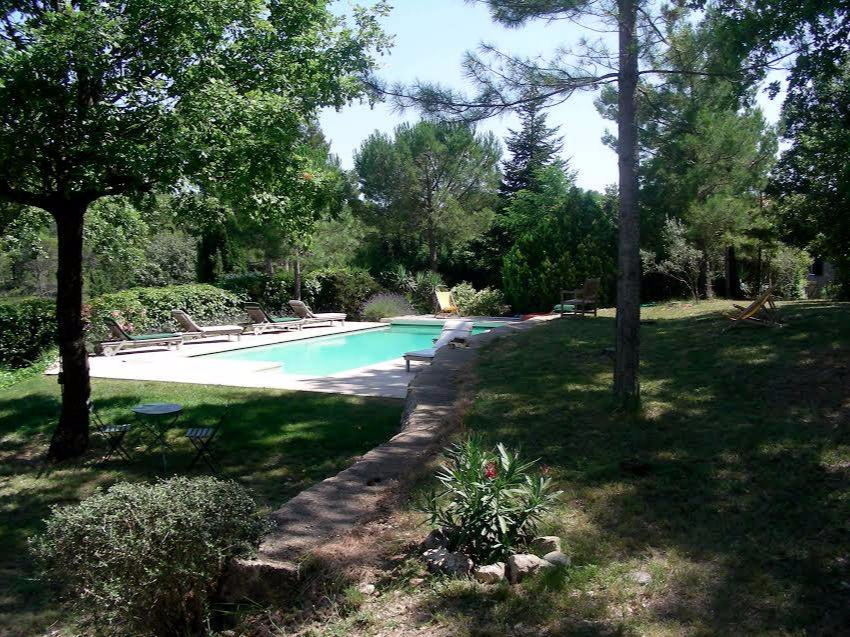
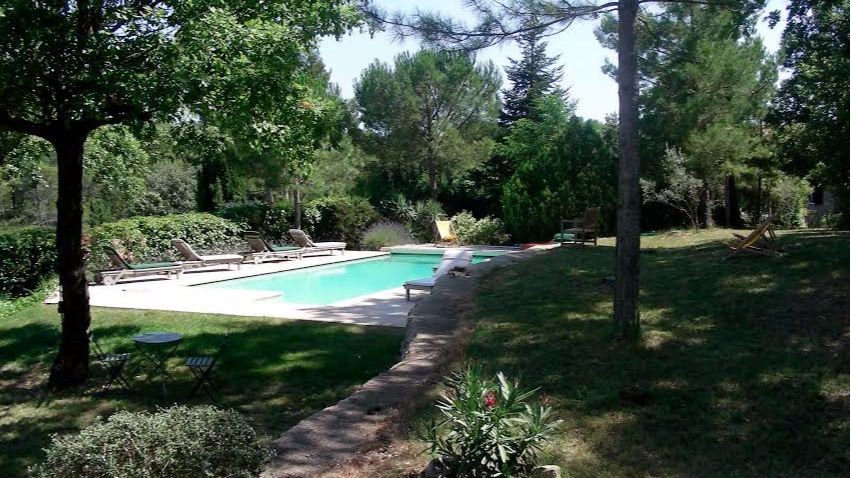
create github pages

diff --git a/tarifs.html b/tarifs.html
@@ -23,37 +23,7 @@
   
 </head>
 <body>
-  <section class="mbr-section article content12 cid-qJmukr1Xi2" id="content12-q">
-     
-
-    <div class="container">
-        <div class="media-container-row">
-            <div class="mbr-text counter-container col-12 col-md-8 mbr-fonts-style display-7">
-                <ul>
-                    <li><strong>PLEINE SAISON : </strong>du 28 juin au 30 août <br><strong>2.400 euros/semaine</strong></li>
-                    <li><strong>MOYENNE SAISON :</strong>&nbsp;du 3 mai au 28 juin et du 30 août au 4 octobre<br><strong>1.400 euros/semaine</strong></li>
-                    <li><strong>BASSE SAISON : </strong>5 octobre au 2 mai (pas de piscine)<br><strong>1.000 euros/semaine</strong></li>
-                </ul>
-            </div>
-        </div>
-    </div>
-</section>
-
-<section class="engine"><a href="https://mobirise.ws/e">best web maker software</a></section><section class="mbr-section content8 cid-qJtFdrYw0t" id="content8-1i">
-
-    
-
-    <div class="container">
-        <div class="media-container-row title">
-            <div class="col-12 col-md-8">
-                <div class="mbr-section-btn align-center"><a class="btn btn-primary display-5" href="https://www.homelidays.com/hebergement/p6071163?uni_id=1830457" target="_blank">DISONIBILITES ET TARIFS SUR HOMELIDAYS</a>
-                    <a class="btn btn-secondary display-5" href="https://fr.airbnb.be/rooms/4954449" target="_blank">DISPONIBILITES ET TARIFS SUR AIRBNB</a></div>
-            </div>
-        </div>
-    </div>
-</section>
-
-<section class="menu cid-qJmcF7aVNH" once="menu" id="menu1-j">
+  <section class="menu cid-qJmcF7aVNH" once="menu" id="menu1-j">
 
     
 
@@ -94,6 +64,36 @@
             
         </div>
     </nav>
+</section>
+
+<section class="engine"><a href="https://mobirise.ws/e">best website building software</a></section><section class="mbr-section article content12 cid-qJmukr1Xi2" id="content12-q">
+     
+
+    <div class="container">
+        <div class="media-container-row">
+            <div class="mbr-text counter-container col-12 col-md-8 mbr-fonts-style display-7">
+                <ul>
+                    <li><strong>PLEINE SAISON : </strong>du 28 juin au 30 août <br><strong>2.400 euros/semaine</strong></li>
+                    <li><strong>MOYENNE SAISON :</strong>&nbsp;du 3 mai au 28 juin et du 30 août au 4 octobre<br><strong>1.400 euros/semaine</strong></li>
+                    <li><strong>BASSE SAISON : </strong>5 octobre au 2 mai (pas de piscine)<br><strong>1.000 euros/semaine</strong></li>
+                </ul>
+            </div>
+        </div>
+    </div>
+</section>
+
+<section class="mbr-section content8 cid-qJtFdrYw0t" id="content8-1i">
+
+    
+
+    <div class="container">
+        <div class="media-container-row title">
+            <div class="col-12 col-md-8">
+                <div class="mbr-section-btn align-center"><a class="btn btn-primary display-5" href="https://www.homelidays.com/hebergement/p6071163?uni_id=1830457" target="_blank">DISONIBILITES ET TARIFS SUR HOMELIDAYS</a>
+                    <a class="btn btn-secondary display-5" href="https://fr.airbnb.be/rooms/4954449" target="_blank">DISPONIBILITES ET TARIFS SUR AIRBNB</a></div>
+            </div>
+        </div>
+    </div>
 </section>
 
 <section class="features5 cid-qJtDKjp3cv" id="features5-1g">

diff --git a/Description.html b/Description.html
@@ -23,18 +23,7 @@
   
 </head>
 <body>
-  <section class="mbr-section article content1 cid-qJmHChJFuk" id="content1-14">
-    
-     
-
-    <div class="container">
-        <div class="media-container-row">
-            <div class="mbr-text col-12 col-md-8 mbr-fonts-style display-7">La MAGNANERIE - Authentique propriété de charme en Provence - Côte d’Azur (12 personnes)<div><strong><br></strong></div><div><strong>Description Extérieure :</strong></div></div>
-        </div>
-    </div>
-</section>
-
-<section class="engine"><a href="https://mobirise.ws/o">best mobile website builder</a></section><section class="menu cid-qJmcF7aVNH" once="menu" id="menu1-l">
+  <section class="menu cid-qJmcF7aVNH" once="menu" id="menu1-l">
 
     
 
@@ -75,6 +64,17 @@
             
         </div>
     </nav>
+</section>
+
+<section class="engine"><a href="https://mobirise.ws">Mobirise</a></section><section class="mbr-section article content1 cid-qJmHChJFuk" id="content1-14">
+    
+     
+
+    <div class="container">
+        <div class="media-container-row">
+            <div class="mbr-text col-12 col-md-8 mbr-fonts-style display-7">La MAGNANERIE - Authentique propriété de charme en Provence - Côte d’Azur (12 personnes)<div><strong><br></strong></div><div><strong>Description Extérieure :</strong></div></div>
+        </div>
+    </div>
 </section>
 
 <section class="mbr-section article content12 cid-qJmG3gMbw5" id="content12-11">
@@ -122,7 +122,7 @@
 
     <figure class="mbr-figure">
             <div class="image-block" style="width: 66%;">
-                <img src="assets/images/fayence-ete-2008-photos-prises-par-papa-vdk-062-2800x2100.jpg" width="1400" alt="Mobirise" title="">
+                <img src="assets/images/fayence-piscine-800x599.jpg" width="1400" alt="Mobirise" title="">
                 
             </div>
     </figure>

diff --git a/index.html b/index.html
@@ -67,7 +67,7 @@
     </nav>
 </section>
 
-<section class="engine"><a href="https://mobirise.ws/q">offline website maker download</a></section><section class="cid-qJmcF8cZGH mbr-fullscreen mbr-parallax-background" id="header2-f">
+<section class="engine"><a href="https://mobirise.ws/e">best web maker software</a></section><section class="cid-qJmcF8cZGH mbr-fullscreen mbr-parallax-background" id="header2-f">
 
     
 
@@ -100,7 +100,7 @@
 
     <figure class="mbr-figure">
         <div class="image-block" style="width: 100%;">
-            <img src="assets/images/fayence-ete-2008-photos-prises-par-papa-vdk-054-2816x2112.jpg" alt="Mobirise" title="">
+            <img src="assets/images/fayence-ete-2008-photos-prises-par-papa-vdk-54-2812x1582.jpg" alt="Mobirise" title="">
             <figcaption class="mbr-figure-caption mbr-figure-caption-over">
                 <div class="container pb-5 mbr-white align-center mbr-fonts-style display-7"></div>
             </figcaption>
@@ -128,7 +128,7 @@
 
     <figure class="mbr-figure">
         <div class="image-block" style="width: 100%;">
-            <img src="assets/images/d15d8dc7-7bbf-464a-8e1b-971a412c944d-1-4608x3072.jpg" alt="Mobirise" title="">
+            <img src="assets/images/fayence-piscine-851x638.jpg" alt="Mobirise" title="">
             <figcaption class="mbr-figure-caption mbr-figure-caption-over">
                 <div class="container pb-5 mbr-white align-center mbr-fonts-style display-7"></div>
             </figcaption>

diff --git a/galerie photo.html b/galerie photo.html
@@ -24,18 +24,7 @@
   
 </head>
 <body>
-  <section class="mbr-section article content1 cid-qJnwnnxONY" id="content1-1a">
-    
-     
-
-    <div class="container">
-        <div class="media-container-row">
-            <div class="mbr-text col-12 col-md-8 mbr-fonts-style display-2"><strong>&nbsp; &nbsp; &nbsp; &nbsp; &nbsp; &nbsp; &nbsp; &nbsp; &nbsp; &nbsp;Galerie Photo</strong></div>
-        </div>
-    </div>
-</section>
-
-<section class="engine"><a href="https://mobirise.ws/h">how to make your own website</a></section><section class="menu cid-qJmcF7aVNH" once="menu" id="menu1-i">
+  <section class="menu cid-qJmcF7aVNH" once="menu" id="menu1-i">
 
     
 
@@ -76,6 +65,17 @@
             
         </div>
     </nav>
+</section>
+
+<section class="engine"><a href="https://mobirise.ws/j">how to design free website</a></section><section class="mbr-section article content1 cid-qJnwnnxONY" id="content1-1a">
+    
+     
+
+    <div class="container">
+        <div class="media-container-row">
+            <div class="mbr-text col-12 col-md-8 mbr-fonts-style display-2"><strong>&nbsp; &nbsp; &nbsp; &nbsp; &nbsp; &nbsp; &nbsp; &nbsp; &nbsp; &nbsp;Galerie Photo</strong></div>
+        </div>
+    </div>
 </section>
 
 <section class="mbr-gallery mbr-slider-carousel cid-qJmxKZJeY0" id="gallery3-v">

diff --git a/tourisme.html b/tourisme.html
@@ -23,18 +23,7 @@
   
 </head>
 <body>
-  <section class="mbr-section article content1 cid-qJnxdf6YYJ" id="content1-1e">
-    
-     
-
-    <div class="container">
-        <div class="media-container-row">
-            <div class="mbr-text col-12 col-md-8 mbr-fonts-style display-2"><strong>Tourisme et &nbsp;découverte</strong></div>
-        </div>
-    </div>
-</section>
-
-<section class="engine"><a href="https://mobirise.ws/g">create free website</a></section><section class="menu cid-qJmcF7aVNH" once="menu" id="menu1-1b">
+  <section class="menu cid-qJmcF7aVNH" once="menu" id="menu1-1b">
 
     
 
@@ -75,6 +64,17 @@
             
         </div>
     </nav>
+</section>
+
+<section class="engine"><a href="https://mobirise.ws/m">drag and drop site creator</a></section><section class="mbr-section article content1 cid-qJnxdf6YYJ" id="content1-1e">
+    
+     
+
+    <div class="container">
+        <div class="media-container-row">
+            <div class="mbr-text col-12 col-md-8 mbr-fonts-style display-2"><strong>Tourisme et &nbsp;découverte</strong></div>
+        </div>
+    </div>
 </section>
 
 <section class="mbr-section article content12 cid-qJnx5ye4rq" id="content12-1d">
